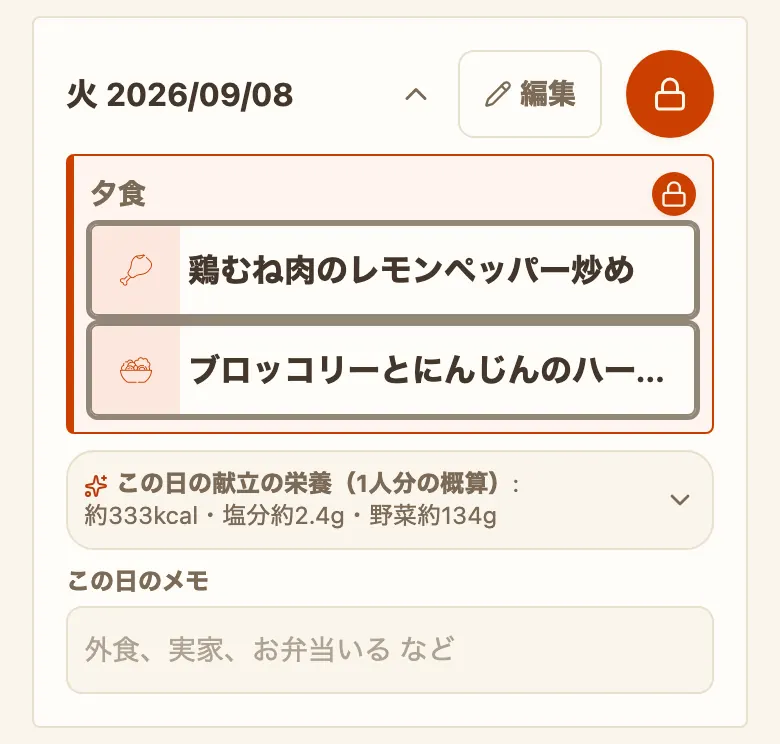
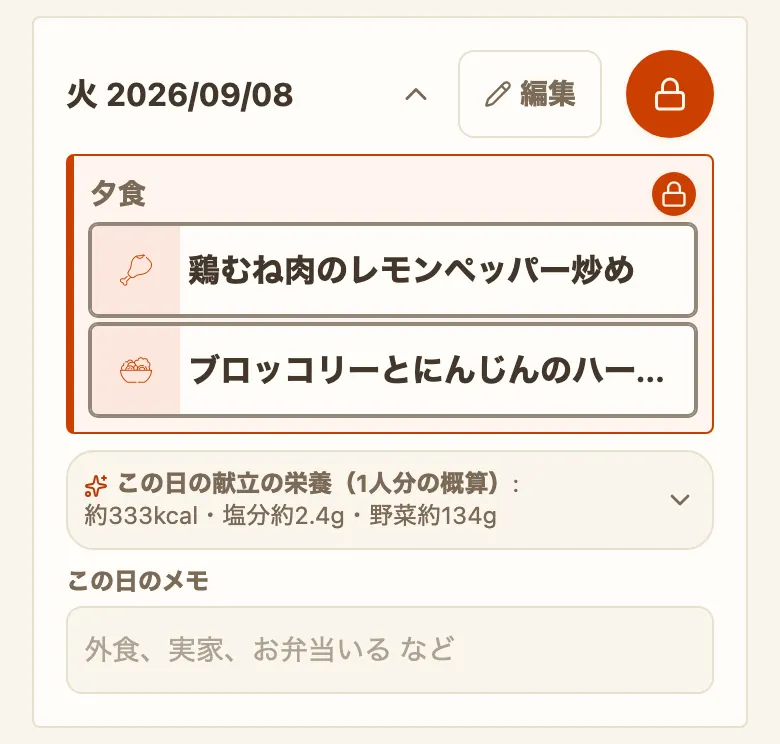
カードの線を3.5px→3px(オーナー実機FB「ちょっと太すぎました」)+絵40枚を撮り直し

Changed region(s): [[0.0923, 0.4019, 0.8923, 0.4637], [0.8615, 0.5565, 0.8923, 0.5874], [0.8615, 0.2782, 0.8923, 0.3091]]

diff --git a/src/index.css b/src/index.css
@@ -153,12 +153,13 @@
      従来の1.5pxはborderのまま残し、増えたぶん（この値−1.5px）を outline で**外側**に描く
      ＝線の内側の縁もカードの中身も箱の大きさも1pxも動かず、外へだけ太る。
 
-     3倍=4.5pxにしなかった理由（便NL実測）: 外へ出る環は「この値−1.5px」で、隣り合う
-     カードの環どうしは gap の中で向かい合う。いちばん狭い並びは週タブ・月の日の窓・
-     買い物メモの窓の縦積み（space-y-1=4px）で、4.5pxだと環は3px×2=6px＞4px
-     ＝**2px重なる**。3.5px（環2px×2=4px＝ちょうど収まる）が「重ならない最大」
-     （グリッド gap-x=8px・棚 gap=8px は 4px残る）。「くらい」の範囲で調和を優先した。 */
-  --border-card-width: 3.5px;
+     太さの経緯: 1px（〜37回目）→1.5px→3.5px→**3px**（2026-09-07 オーナー実機
+     「3.0pxにしてください。ちょっと太すぎました」）。
+     上限の目安（便NL実測）: 外へ出る環は「この値−1.5px」で、隣り合うカードの環どうしは
+     gap の中で向かい合う。いちばん狭い並びは週タブ・月の日の窓・買い物メモの窓の縦積み
+     （space-y-1=4px）なので、環は片側2px以下＝**この値は3.5pxが上限**（4.5pxだと2px重なる）。
+     3pxなら環1.5px×2=3px＜4px で余裕がある。 */
+  --border-card-width: 3px;
 
   /* 食材チップ色（一覧カードの主要食材チップ専用。にんじん=オレンジ 等の簡易マッピング。
      logic/seasoningGroup.ts・pages/CookNaviPage.tsxの色分けにも流用している） */
